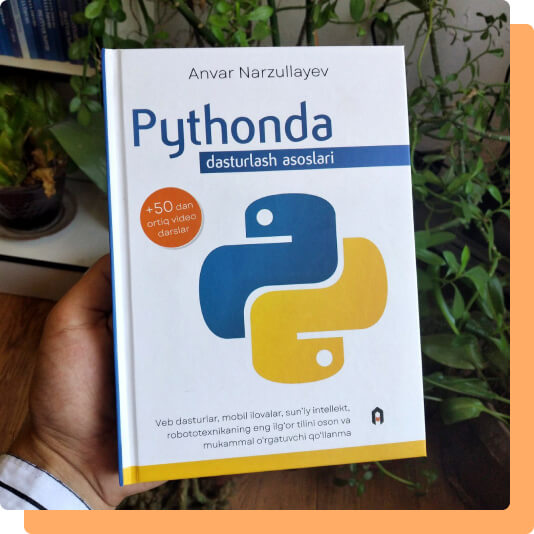
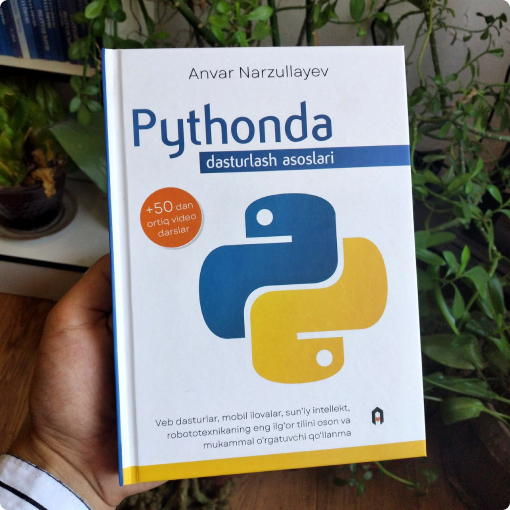
Add site hero section styling

diff --git a/css/style.css b/css/style.css
@@ -61,14 +61,15 @@ li{
    padding: 12px 24px;
    font-size: 13px;
    font-weight: 700;
-   letter-spacing: 0.5px;
    background-color: var(--accent-color);
    color: var(--white-color);
    border-radius: 4px;
 }
 
 .line{
-
+   width: 80px;
+   height: 3px;
+   background-color: var(--accent-color);
 }
 
 /* CONTAINER */
@@ -124,6 +125,40 @@ li{
 /*MAIN SECTION*/
 
    /*SITE HERO*/
+.site-hero {
+   background-color: #252420;
+}
+.hero {
+   color: var(--white-color);
+   display: flex;
+   justify-content: space-between;
+}
+.hero__content {
+   width: 390px;
+   padding: 80px 0px;
+}
+.line {
+   margin: 0px 0px 40px 0px;
+}
+.hero__heading {
+   font-family: var(--other-font);
+   font-weight: 700;
+   font-size: 40px;
+   line-height: 48px;
+   margin: 0px 0px 24px 0px;
+}
+.hero__text {
+   font-weight: 400;
+   line-height: 24px;
+   margin: 0px 0px 32px 0px;
+}
+.hero__btn {
+   margin: 0px 0px 2px 0px;
+}
+.hero__images{
+   border-radius: 8px;
+   transform: translateY(40px);
+}
 
    /*SITE FEAURES*/
 

diff --git a/index.html b/index.html
@@ -73,9 +73,7 @@
                   <a href="#" class="hero__btn button">Buyurtma berish</a>
                </div>
                <!--HERO IMG-->
-               <div class="hero__img">
-                  <img src="img/python-book.jpg" alt="python-book img" srcset="img/python-book.jpg 1x, img/python-book@2x.jpg 2x" width="510" height="510">
-               </div>
+                  <img class="hero__images" src="img/python-book.jpg" alt="python-book img" srcset="img/python-book.jpg 1x, img/python-book@2x.jpg 2x" width="510px" height="510px">
             </div>
          </div>
       </div>
